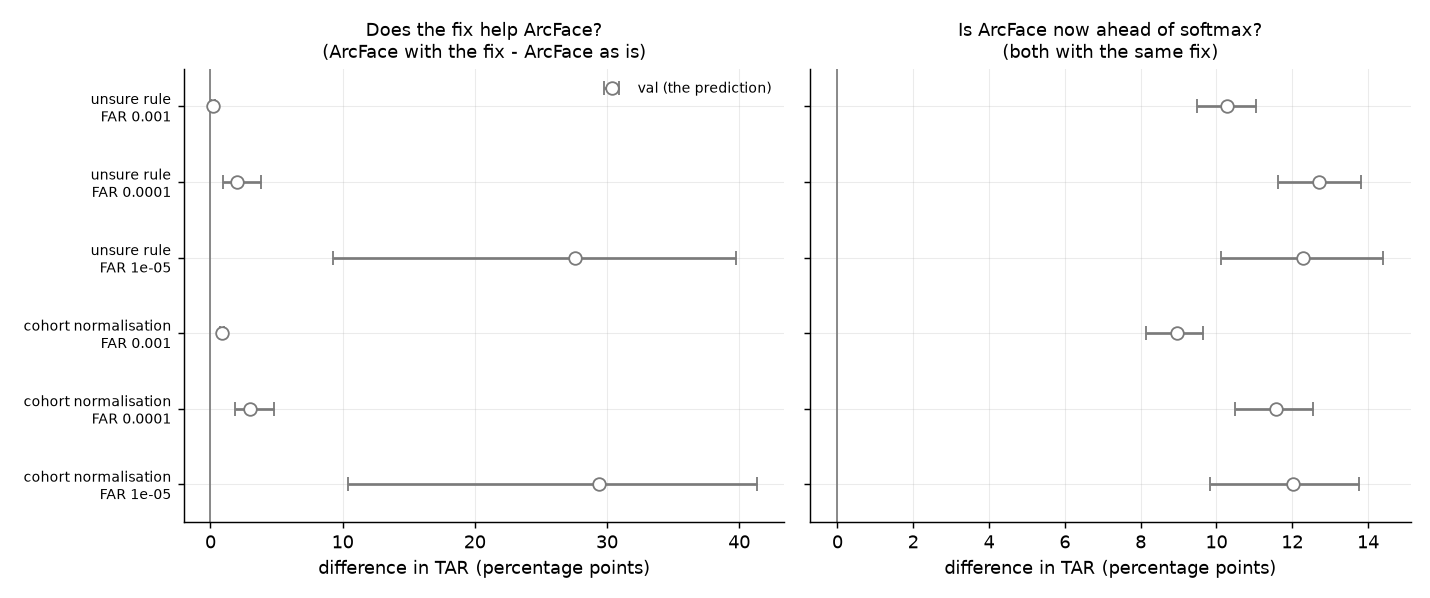
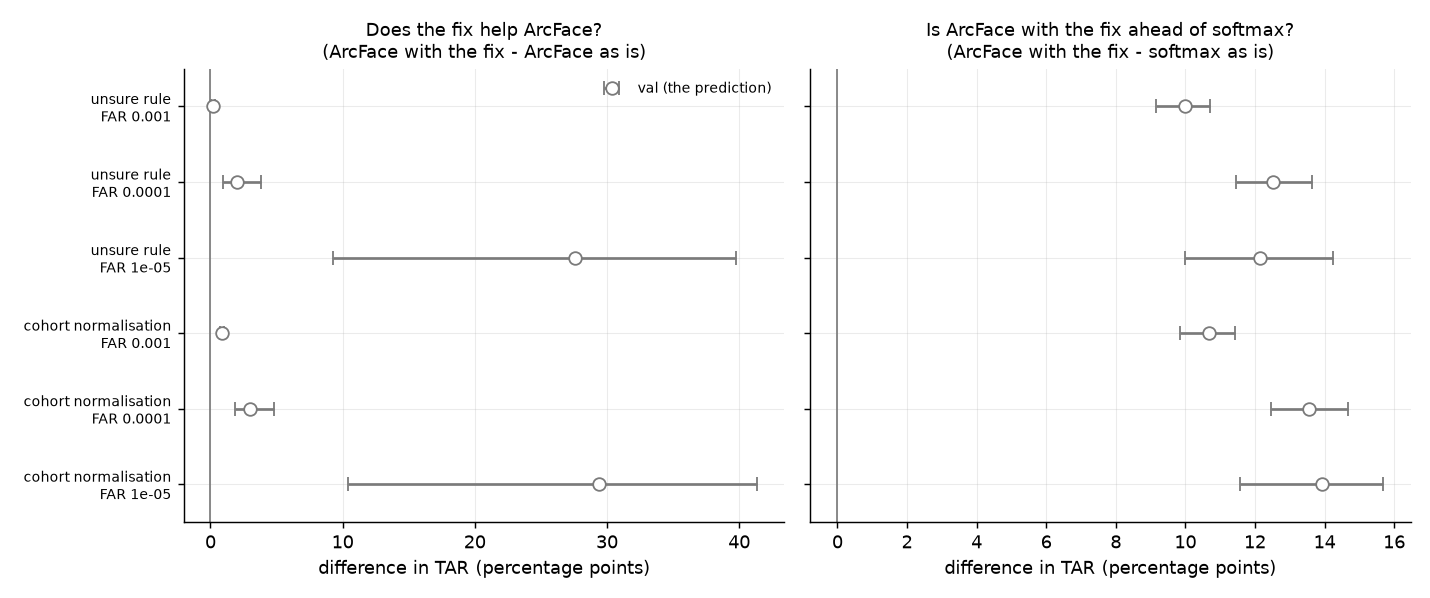
Further work: compare ArcFace with softmax as is, before using test

diff --git a/scripts/further_work/low_quality_fixes.py b/scripts/further_work/low_quality_fixes.py
@@ -265,11 +265,11 @@ def plot_roc(on_ev: dict, split: str, path: Path):
 
 
 def plot_differences(diffs: dict, path: Path):
-    """Two questions, with 95% intervals: does each fix help ArcFace, and with both
-    heads fixed, is ArcFace ahead of softmax? val hollow, evaluation split filled."""
+    """Two questions, with 95% intervals: does each fix help ArcFace, and with the
+    fix, is ArcFace ahead of softmax as is? val hollow, evaluation split filled."""
     groups = {
         "Does the fix help ArcFace?\n(ArcFace with the fix - ArcFace as is)": "help",
-        "Is ArcFace now ahead of softmax?\n(both with the same fix)": "vs softmax",
+        "Is ArcFace with the fix ahead of softmax?\n(ArcFace with the fix - softmax as is)": "vs softmax",
     }
     rows = [f"{fix}\nFAR {f:g}" for fix in FIXES[1:] for f in FARS]
     fig, axes = plt.subplots(1, 2, figsize=(11, 4.6), sharey=True)
@@ -352,10 +352,12 @@ def main():
             r = on[head, fix, split]
             print(f"   {f'{head}, {fix}':32s}" + "".join(f"{r[f'TAR@FAR={f:g}']:11.1%}" for f in FARS))
 
+    # softmax barely changes with either fix (section 3), so ArcFace is compared with
+    # softmax as is: the baseline from step 9.
     comparisons = {}
     for fix in FIXES[1:]:
         comparisons[f"help: {fix}"] = (("ArcFace", fix), ("ArcFace", "as is"))
-        comparisons[f"vs softmax: {fix}"] = (("ArcFace", fix), ("softmax", fix))
+        comparisons[f"vs softmax: {fix}"] = (("ArcFace", fix), ("softmax", "as is"))
     diffs = {s: paired_bootstrap(data, cutoffs, s, comparisons, ds[s].num_classes) for s in splits}
     for s, by_name in diffs.items():
         print(f"\n4. Differences on {s}, with a 95% bootstrap interval ({N_BOOT} resamples of identities)")

diff --git a/docs/further_work/low_quality_fixes.md b/docs/further_work/low_quality_fixes.md
@@ -97,7 +97,9 @@ genuine cosine stand out.
   photos it flags is part of the result.
 - **Cohort:** 18,144 training photos; each photo's 300 highest cosines.
 - **Thresholds:** chosen on val for each FAR and carried over to test.
-- **Both models get both fixes,** so the comparison with softmax stays fair.
+- **Softmax is scored with both fixes too,** to check it doesn't need them
+  (prediction 4). ArcFace with each fix is compared with softmax as is, the
+  baseline from step 9.
 - **Intervals:** a paired bootstrap over people, as in step 9.
 
 <details>
@@ -131,7 +133,7 @@ of unreadable photos. With either fix it stays high, as softmax does.
 
 Each circle is a difference in TAR, in percentage points, and its bar is the
 middle 95% of 1,000 resamples of val's people. Left: ArcFace with the fix minus
-ArcFace as is. Right: ArcFace minus softmax, with both given the same fix. Test
+ArcFace as is. Right: ArcFace with the fix minus softmax as is. Test
 will add filled points beside these.
 
 1. The unsure rule lifts ArcFace's TAR at FAR 1e-5, with an interval that never
@@ -139,13 +141,13 @@ will add filled points beside these.
    or 1e-4 (on val: +0.2 and +2.0).
 2. Cohort normalisation does the same. On val: +29.4 [+10.4, +41.4] at FAR 1e-5,
    and +0.9 and +3.0 at FAR 1e-3 and 1e-4.
-3. With both models given the same fix, ArcFace beats softmax at every FAR,
-   1e-5 included, with intervals that never cross 0. On val, with the unsure
-   rule: +10.3, +12.7 and +12.3 at FAR 1e-3, 1e-4 and 1e-5. With cohort
-   normalisation: +9.0, +11.6 and +12.0.
-4. Neither fix changes softmax's TAR by 3 points or more at any FAR. On val, the
-   unsure rule changes it by -0.3, -0.2 and -0.1, and cohort normalisation by
-   +1.7, +2.0 and +1.9. Softmax's false matches aren't concentrated on a few
+3. With either fix, ArcFace beats softmax as is at every FAR, 1e-5 included,
+   with intervals that never cross 0. On val, with the unsure rule: +10.0, +12.5
+   and +12.2 at FAR 1e-3, 1e-4 and 1e-5. With cohort normalisation: +10.7, +13.6
+   and +13.9.
+4. Softmax doesn't need fixing: neither fix changes its TAR by 3 points or more
+   at any FAR. On val, the unsure rule changes it by -0.3, -0.2 and -0.1, and
+   cohort normalisation by +1.7, +2.0 and +1.9. Softmax's false matches aren't concentrated on a few
    photos (on test, its 1,768 highest-scoring different-person pairs involve
    2,034 photos), so there is little for either fix to remove.
 5. Val's settings carry over. The unsure cutoff flags between 0.5% and 2% of
